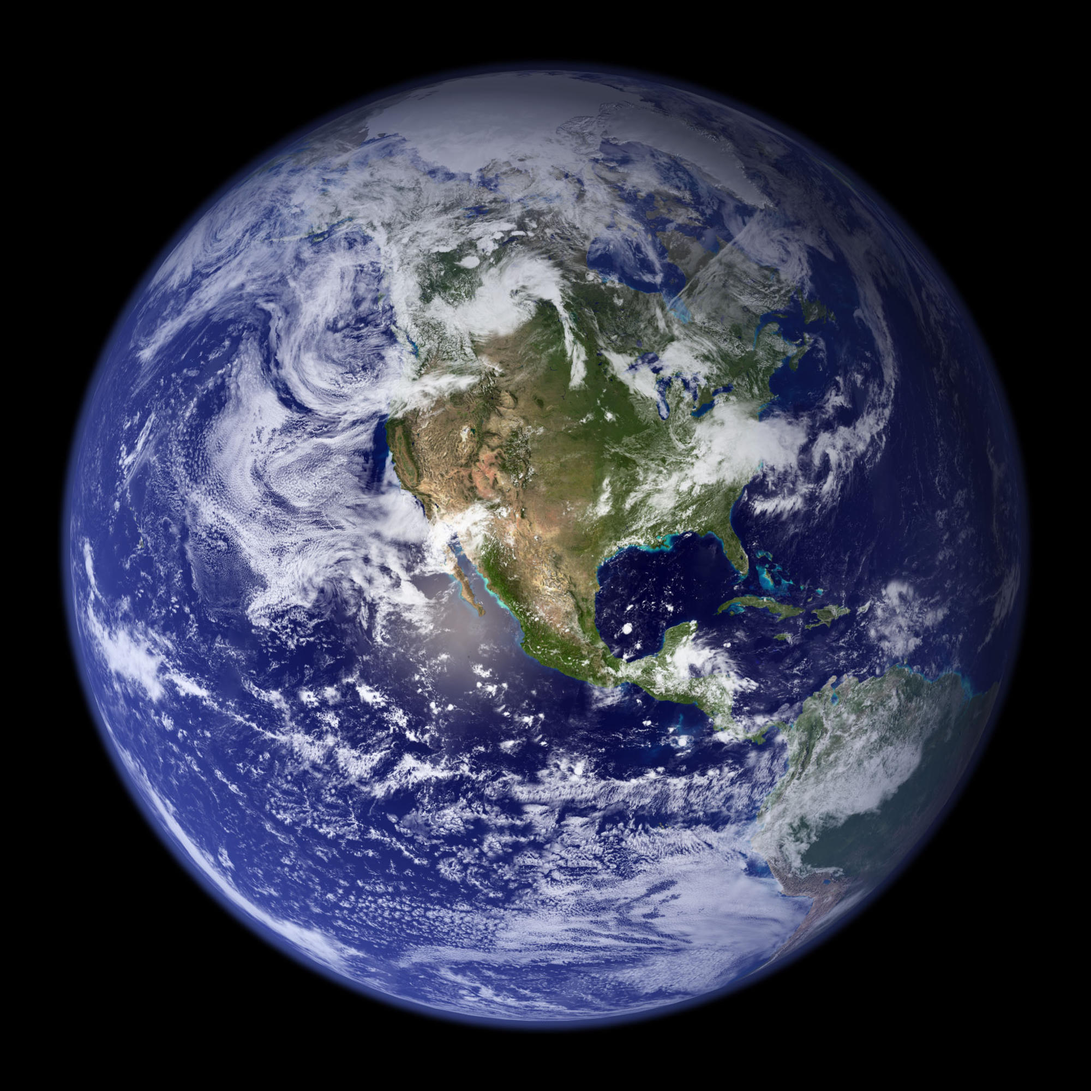
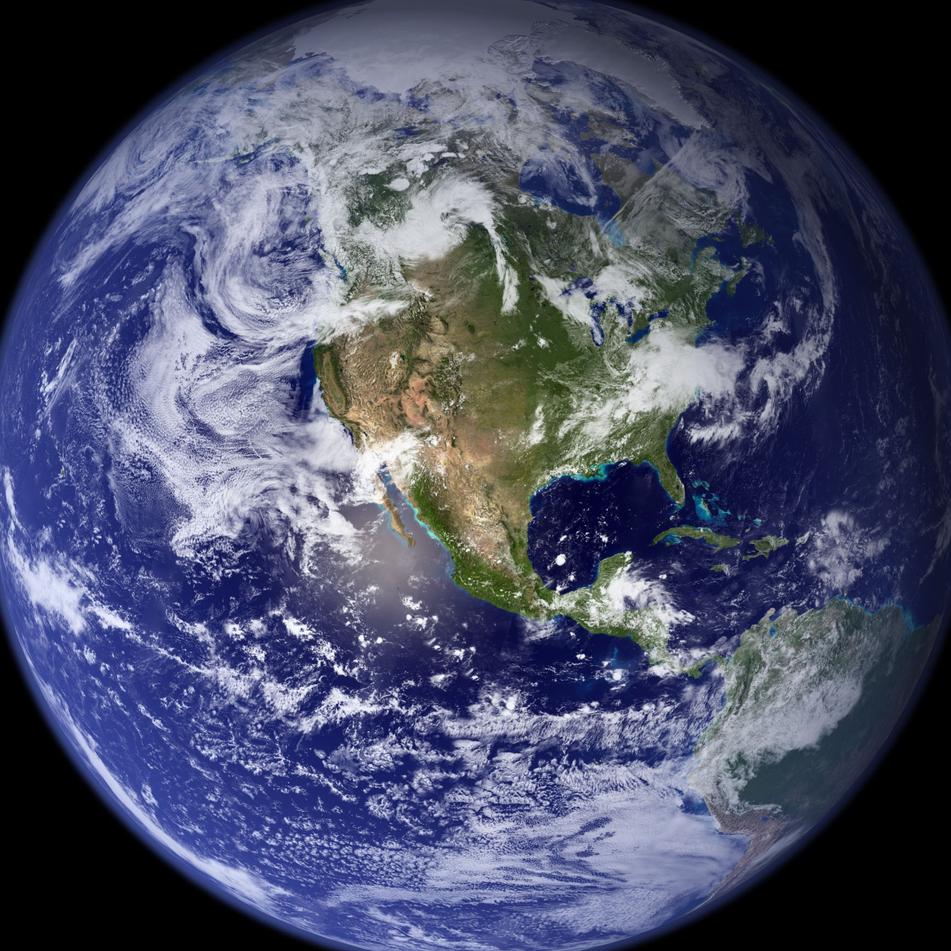
Remove black rim from earth jpg.

diff --git a/index.html b/index.html
@@ -497,8 +497,8 @@
                 radial-gradient(circle at 26% 22%, rgba(255, 255, 255, 0.22) 0%, transparent 24%),
                 radial-gradient(circle at 78% 80%, rgba(0, 8, 20, 0.45) 0%, transparent 50%),
                 url("earth-core.jpg");
-            background-size: cover, cover, cover;
-            background-position: center;
+            background-size: cover, cover, 118%;
+            background-position: center, center, center;
             box-shadow:
                 0 10px 24px rgba(0, 0, 0, 0.42),
                 0 0 26px rgba(186, 214, 232, 0.34),
